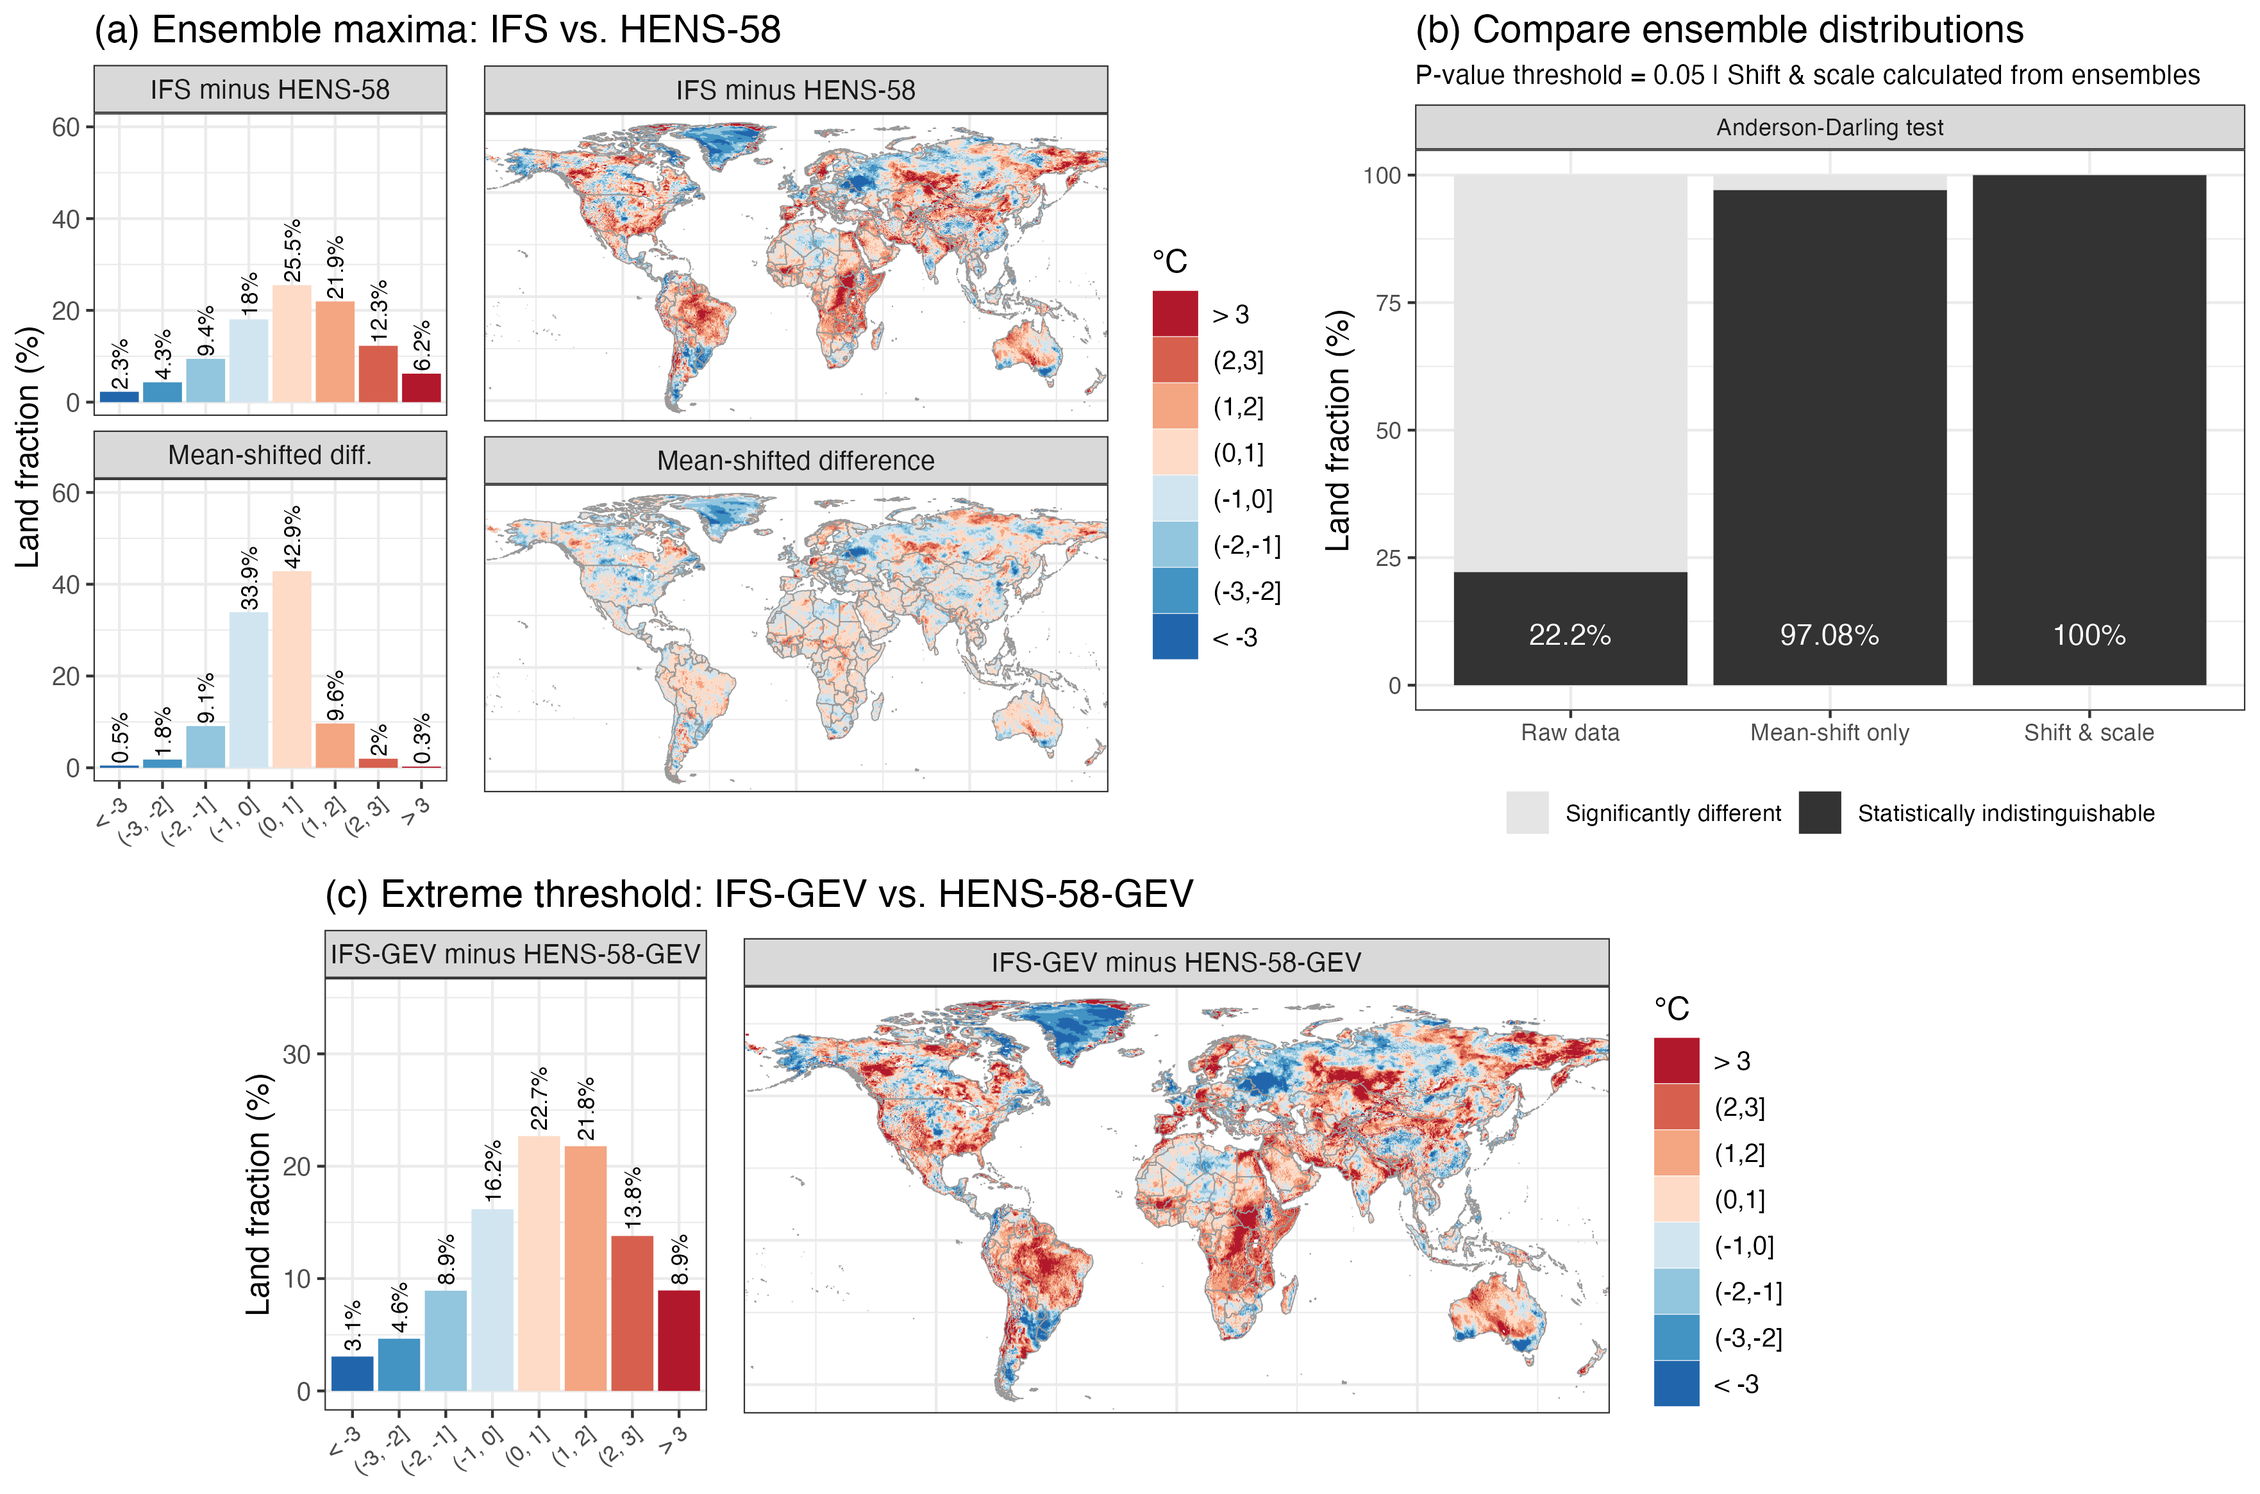
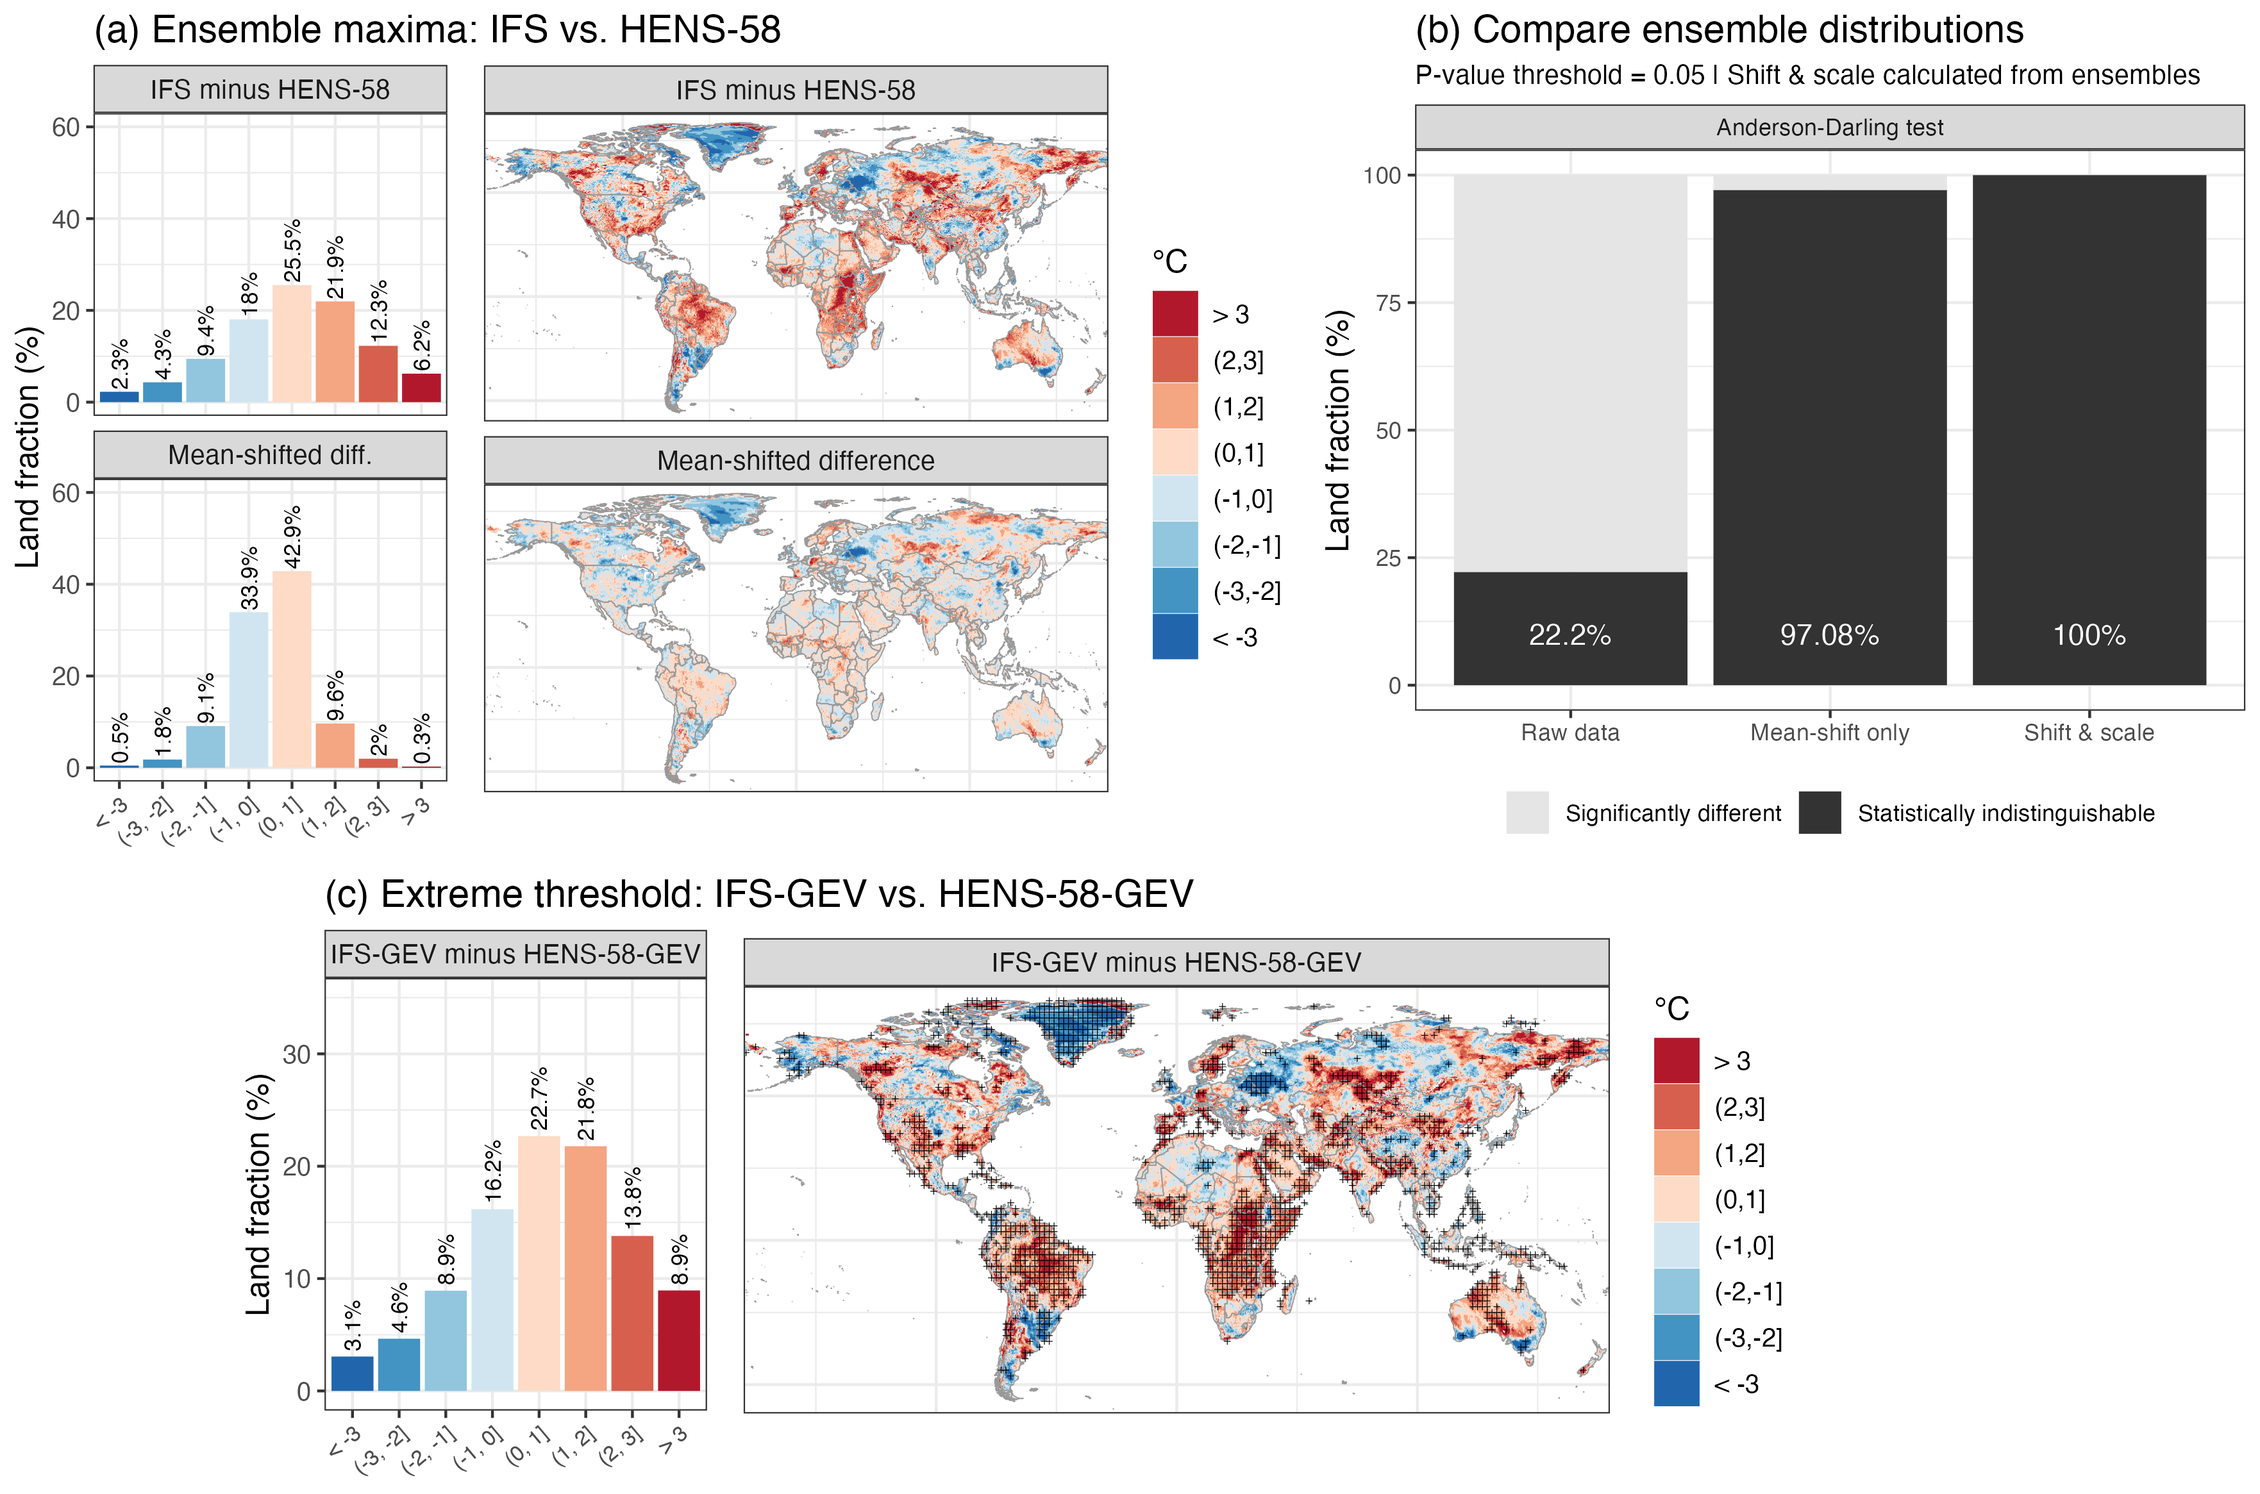
Updates from Overleaf

diff --git a/article_main.tex b/article_main.tex
@@ -451,12 +451,50 @@ In summary, comparisons within each modeling system reveal a consistent picture:
 \label{fig:compbtwn}
 \end{figure*}
 
-We now shift our focus to between-model comparisons while holding the ensemble size constant. Figure~\ref{fig:compbtwn} compares the ensemble maxima from IFS and HENS-58 (each with approximately 50 members) as well as the inferred IFS-GEV and HENS-58-GEV distributions. 
-First, for IFS vs. HENS-58, our null hypothesis is that these should be basically identical because the underlying SFNO architecture was calibrated against ERA5, and ERA5 and IFS are two members of a series of nearly identical models (see Section~\ref{sec:DataMethods}). However, this null hypothesis is invalidated.
-Comparing the ensemble maxima from IFS and HENS-58, the distribution of differences shown in the top row of Figure~\ref{fig:compbtwn}(a) contains many non-zero values (differences exceed $2^\circ$C in absolute value for more than 50\% of the globe) with clearly structured spatial patterns. Overall, the IFS maxima are warmer than the HENS-58 maxima. However, for a similar ensemble size, it is notable that the ML emulator does produce temperatures that are at least $2^\circ$C warmer than the NWP ensemble, although this only applies to about 6.6\% of the land areas considered. These differences translate to the entire ensemble distribution: for the raw data, the two ensembles are statistically indistinguishable for only 22.2\% of the globe (Figure~\ref{fig:compbtwn}b.). However, nearly all of these differences can be explained by a mean shift: if we remove the ensemble mean at each grid box from the ensemble maxima (bottom row of Figure~\ref{fig:compbtwn}a.) and each ensemble member (Figure~\ref{fig:compbtwn}b.), we see that the magnitude of differences decreases significantly and the two ensembles are statistically indistinguishable for nearly the entire globe (97.1\%). A rescaling of the ensemble data by the grid box standard deviation aligns the two ensembles for the other 3\%.
+We now shift our focus to between-model comparisons while holding ensemble size constant. Figure~\ref{fig:compbtwn} compares the ensemble maxima from IFS and HENS-58 (each with approximately 50 members) as well as the inferred IFS-GEV and HENS-58-GEV distributions. For the IFS vs.\ HENS-58 comparison, our null hypothesis is that these should be essentially identical, because the underlying SFNO architecture was calibrated against ERA5, and ERA5 and IFS are two members of a series of nearly identical models (see Section~\ref{sec:DataMethods}). However, this null hypothesis is not supported by the data. The distribution of differences in ensemble maxima between IFS and HENS-58 (top row of Figure~\ref{fig:compbtwn}a) contains many non-zero values --- differences exceed $2^\circ$C in absolute value for more than 50\% of the globe --- with clearly structured spatial patterns. Overall, the IFS maxima are warmer than the HENS-58 maxima, though it is notable that the ML emulator produces temperatures at least $2^\circ$C warmer than the NWP ensemble for approximately 6.6\% of the land areas considered. These differences extend across the entire ensemble distribution: for the raw data, the two ensembles are statistically indistinguishable for only 22.2\% of the globe (Figure~\ref{fig:compbtwn}b). However, nearly all of these differences can be attributed to a mean shift: removing the ensemble mean at each grid box from both the ensemble maxima (bottom row of Figure~\ref{fig:compbtwn}a) and each ensemble member (Figure~\ref{fig:compbtwn}b) substantially reduces the magnitude of differences, leaving the two ensembles statistically indistinguishable over nearly the entire globe (97.1\%). A further rescaling by the grid-box standard deviation reconciles the remaining 3\%.
 
-Our null hypothesis for comparing IFS-GEV and HENS-58-GEV is the same: we expect that these two ensembles should yield the same extreme threshold, within statistical uncertainty. As with the ensemble maxima, this null hypothesis is also invalidated. The IFS-GEV threshold is larger than the HENS-58-GEV threshold for a majority of the globe, 
+Our null hypothesis for the IFS-GEV vs.\ HENS-58-GEV comparison is the same: we expect the two systems to yield equivalent extreme thresholds, within statistical uncertainty. As with the ensemble maxima, this null hypothesis is also not supported. The IFS-GEV threshold exceeds the HENS-58-GEV threshold by more than $2^\circ$C for a large fraction of the globe, yet in other regions the HENS-58-GEV threshold is more than $2^\circ$C warmer. The largest absolute differences are statistically significant (indicated by hatching in Figure~\ref{fig:compbtwn}c), accounting for approximately 40\% of the globe. A comparison of GEV distributions fit to both ensembles reveals that the discrepancy between the two systems is primarily a location shift (Supplemental Figure S4; Section 1.3 of the Supporting Information), and the spatial pattern of differences in GEV location parameters closely matches the spatial pattern of differences in ensemble maxima shown in Figure~\ref{fig:compbtwn}b (pattern correlation $= 0.79$). Importantly, GEV shape parameter estimates from IFS and HENS-58 are statistically indistinguishable (Supplemental Figure S4), suggesting that the ML emulator may perform comparably to IFS in characterizing the extreme upper tail of 2m temperatures.
 
+\begin{figure*}[!t]
+\centering
+\includegraphics[width = \textwidth]{Figure_t2m_probContain_1000day.png}
+\caption{\newTxt{Comparison of IFS-GEV extreme event thresholds for 2m temperature ($99.9\%$ percentile) with corresponding empirical estimates calculated from the HENS ensemble. Panel (a) tallies the probability that the IFS-GEV threshold contains (is larger than) the HENS threshold; lighter colors indicate that HENS values are more extreme than IFS-GEV. Panel (b) tallies the difference in IFS-GEV event threshold (posterior median) and the HENS estimate. Panel insets show the land fraction in each color category.}}
+\label{fig:probcontain}
+\end{figure*}
+
+Finally, we compare the full HENS ensemble with the IFS-GEV thresholds, specifically assessing the 99.9th percentile of 2m temperatures. 
+Since the IFS-GEV extreme thresholds are statistical estimates based on a finite amount of data, we must account for their uncertainty which, in a Bayesian framework, can be quantified using the posterior distribution. To compare a single number (the HENS extreme threshold) with a statistical estimate (the IFS-GEV extreme threshold), we calculate the posterior probability that the HENS threshold is contained by the IFS-GEV threshold. For easier interpretation, we convert these probabilities to categories inspired by the IPCC confidence language \citep{mastrandrea2010guidance}; see also \cite{Risser2025data}. The categories are shown in the legend of Figure~\ref{fig:probcontain}(a). We also calculate differences between the best estimate of the IFS-GEV threshold (the posterior median) and the HENS threshold. 
+
+As with the other between-model comparisons in this section, our null hypothesis is that the IFS-GEV thresholds should be indistinguishable from HENS. Our \textit{a priori} assumption of equivalence is based on the fact that (1) both IFS-GEV and HENS have the same initial and boundary conditions; (2) both have effectively similar ensemble sizes; (3) both forecast systems are nearly perfectly calibrated; and (4) HENS is trained on a very similar model (ERA5) as IFS. Figure~\ref{fig:probcontain} shows the results. Surprisingly, our null hypothesis is once again violated by the data. 
+In Figure~\ref{fig:probcontain}(a), we tally the posterior probability that the IFS-GEV extreme threshold contains the corresponding HENS quantity. Here, lighter colors indicate that HENS values are more extreme than what would have been expected using only the IFS-GEV analysis. We are \textit{virtually certain} that the IFS-GEV threshold contains the HENS threshold for more than one-third of the land area considered in this analysis. For another one-third, % ($6.5\%+9.2\%+12.6\%=28.3\%$),
+the HENS threshold is (at least) \textit{about as likely as not} to be contained by the IFS-GEV quantity. For the final 30.6\% of the land area considered here, the HENS extreme thresholds are definitively extreme compared to the IFS-GEV, and for 7.3\% of the land area the HENS estimates are \textit{exceptionally unlikely} even relative to extrapolating beyond the IFS ensemble via GEV tools. These \textit{exceptionally unlikely} temperatures occur primarily in the northern high latitudes: the majority of Greenland, large portions of eastern and northern Russia, and Alaska. However, \textit{exceptionally unlikely} temperatures in HENS (relative to IFS-GEV) also occur in eastern China, northern Africa, and parts of the central United States and Canada. 
+When the HENS extreme threshold is larger than the IFS-GEV quantity (blue colors in Figure~\ref{fig:probcontain}b.), the exceedance is most often on the order of $1$-$3^\circ$C and occasionally larger than $3^\circ$C. Analysis of gauged temperature records verifies that HENS is generating realistic high-latitude temperatures in places like Greenland (see Section 2 of the Supporting Information). We note that these results are insensitive to the specific extreme threshold used; see Figure S5.
+
+Finally, we compare the full HENS ensemble with the IFS-GEV thresholds, specifically assessing the 99.9th percentile of 2m temperatures. Since the IFS-GEV extreme thresholds are statistical estimates based on a finite amount of data, we must account for their uncertainty, which in a Bayesian framework can be quantified using the posterior distribution. To compare a single number (the HENS extreme threshold) with a statistical estimate (the IFS-GEV extreme threshold), we calculate the posterior probability that the HENS threshold is contained by the IFS-GEV threshold. For easier interpretation, we convert these probabilities to categories inspired by the IPCC confidence language \citep{mastrandrea2010guidance}; see also \citet{Risser2025data}. The categories are shown in the legend of Figure~\ref{fig:probcontain}a. We also calculate differences between the best estimate of the IFS-GEV threshold (the posterior median) and the HENS threshold.
+
+As with the other between-model comparisons in this section, our null hypothesis is that the IFS-GEV thresholds should be indistinguishable from HENS. Our \textit{a priori} assumption of equivalence is based on the fact that (1) both IFS-GEV and HENS have the same initial and boundary conditions; (2) both have effectively similar ensemble sizes; (3) both forecast systems are nearly perfectly calibrated; and (4) HENS is trained on a very similar model (ERA5) as IFS. The results are shown in Figure~\ref{fig:probcontain}. Surprisingly, our null hypothesis is once again violated by the data.
+
+In Figure~\ref{fig:probcontain}a, we tally the posterior probability that the IFS-GEV extreme threshold contains the corresponding HENS quantity, where lighter colors indicate that HENS values are more extreme than what would have been expected from the IFS-GEV analysis alone. We are \textit{virtually certain} that the IFS-GEV threshold contains the HENS threshold for more than one-third of the land area considered. For another one-third, the HENS threshold is (at least) \textit{about as likely as not} to be contained by the IFS-GEV quantity. For the remaining 30.6\% of land area, the HENS extreme thresholds are definitively more extreme than the IFS-GEV estimates; for 7.3\% of the land area, the HENS estimates are \textit{exceptionally unlikely} even relative to GEV-based extrapolation beyond the IFS ensemble. These \textit{exceptionally unlikely} temperatures occur primarily in the northern high latitudes --- the majority of Greenland, large portions of eastern and northern Russia, and Alaska --- but also in eastern China, northern Africa, and parts of the central United States and Canada. When the HENS extreme threshold exceeds the IFS-GEV quantity (blue colors in Figure~\ref{fig:probcontain}b), the exceedance is most often on the order of $1$--$3^\circ$C and occasionally larger than $3^\circ$C. Analysis of observed temperature records confirms that HENS is generating realistic high-latitude temperatures in places like Greenland (see Section~2 of the Supporting Information). We note that these results are insensitive to the specific extreme threshold used (Figure~\ref{fig:S5}).
+
+
+
+
+
+
+
+
+
+
+In summary, extrapolation of the IFS ensemble using GEV theory allows us to anticipate many more of the extreme six-hourly surface temperatures generated by HENS: the HENS extreme thresholds are (at least) \textit{about as likely as not} to be contained for more than two-thirds of the global land areas considered. However, for the other one-third, the HENS estimates are (at best) \textit{unlikely} and, for 7.3\% of the land areas considered, \textit{exceptionally unlikely}. Once again, the spatial distribution and relative magnitude of the \textit{exceptionally unlikely} HENS extreme temperatures provides important information on locations that could have experienced even more extreme heatwaves. 
+
+
+
+
+
+
+
+
+Further research is necessary to understand the systematic differences between the extreme states generated by IFS and HENS and whether this is due to a model bias in HENS.
 
 
 
@@ -482,7 +520,6 @@ Further research is necessary to understand the systematic differences between t
 
 
 Type 2 comparison 2: ditto
-Type 2 comparison 3: null hypothesis is, I think, that IFS-GEV is indistinguishable from HENS.  This is violated, and hence surprising and interesting (our "a third, a third, a third" finding in IPCC probability parlance).  Reason I think null hypothesis is that HENS is indistinguishable from IFS-GEV: HENS and IFS-GEV have the same ICs and BCs; HENS and IFS-GEV are both, in effect, asymptotically equivalent to ensemble sizes >>> 1; HENS and IFS are both nearly perfectly calibrated (spread/skill scores approx. equal to 1); HENS is trained on ERA, which is nearly identical to model used to generate IFS.  So, this is the primary surprising result.
 
 \color{black}
 
